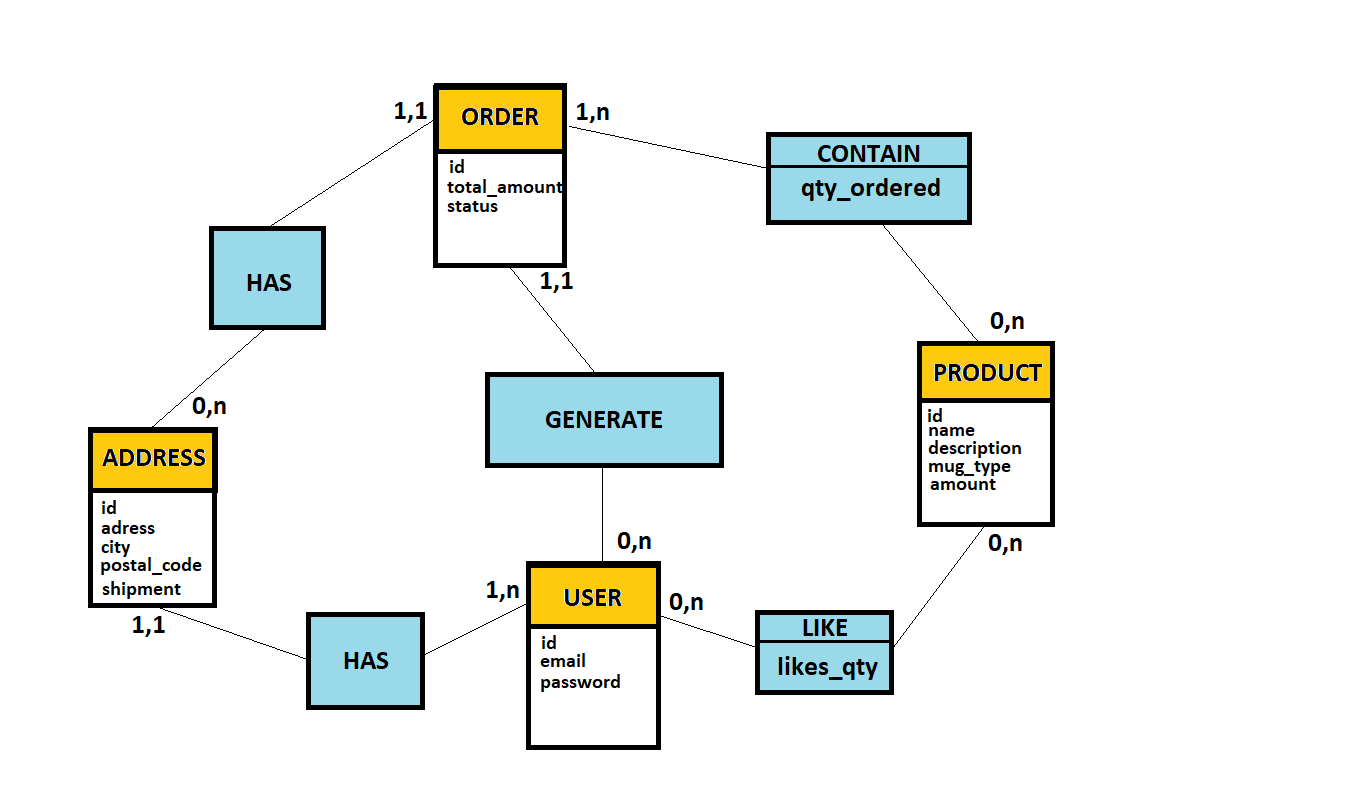
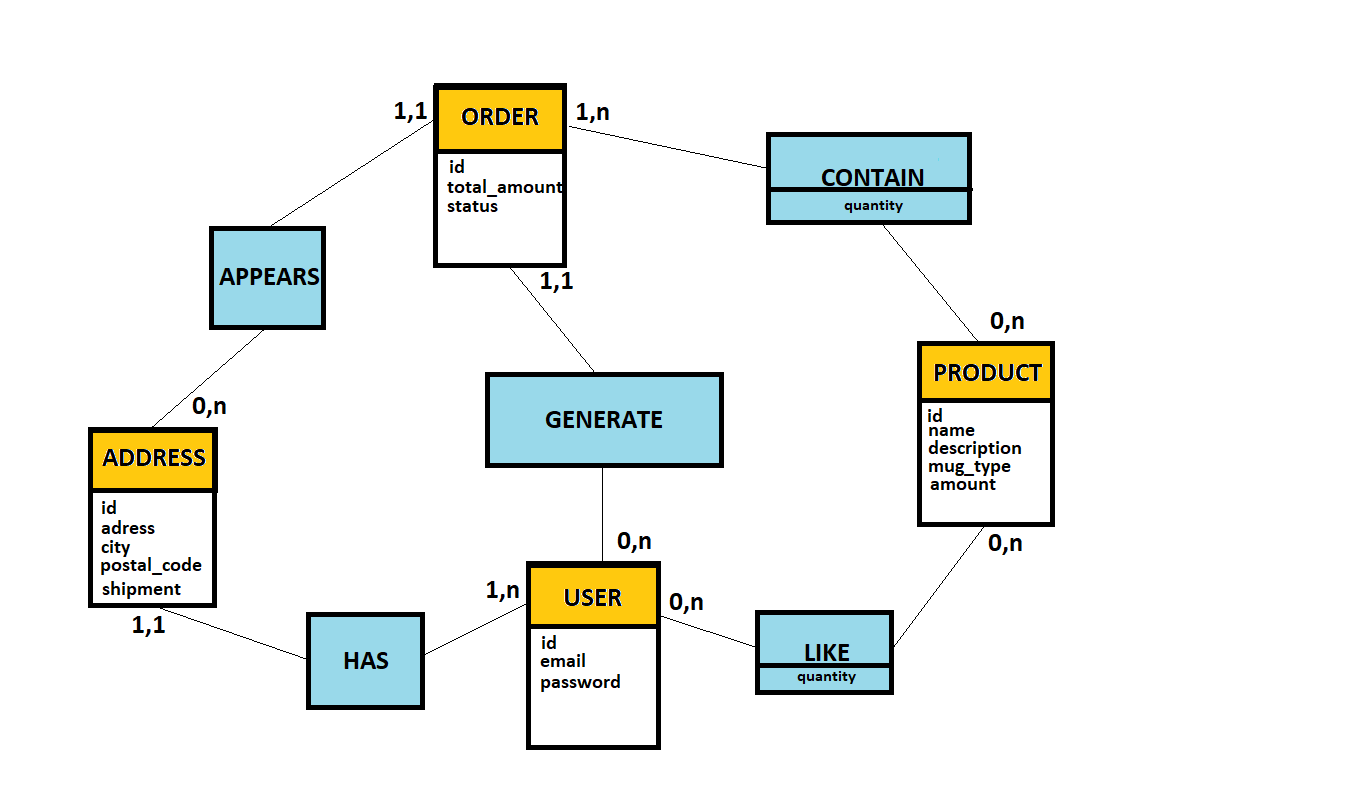
mcd

Changed region(s): [[0.5583, 0.1807, 0.7134, 0.271], [0.5583, 0.7528, 0.6514, 0.8733], [0.1551, 0.3312, 0.2482, 0.3614]]

diff --git a/mcd.md b/mcd.md
@@ -1,0 +1,76 @@
+---
+
+Author: Alain ORLUK / O'clock  
+Formation : Développeur Web & Web mobile - L'API Fetch de JavaScript
+Lieu: Rosheim
+Date : 19/03/2023  
+
+---
+# **Retour sur un MCD d’un.e apprenant.e**
+
+Tout d'abord constatons que le dictionnaire de données sous forme de d'énoncé est pour le moins concis.  
+Gageons qu'il est sujet à questionnement et qu'en situation professionnelle il devra être complété consécutivement à une collecte d'informations plus conséquente auprès du client.  
+
+Toujours est-il que nous n'avons que cela pour concevoir le Modèle conceptuel de données.  
+D'ailleurs voici ma version :  
+![Ma version](/assets/img/MCD.png)
+
+Laisse moi t'expliquer ma vision.  
+À cette fin, décortiquons l'énoncé afin d'identifier les associations :  
+
+1. **Un utilisateur peut créer une ou plusieurs adresses de livraisons**  
+    Déjà ici nous pouvons nous questionner et tenter de trouver une réponse cohérente ou, à défaut, faire des choix qui seront validés ou non lors du retour au client.  
+    - Le compte client contient-il obligatoirement au moins une adresse (par défaut dite de "facturation") ?  
+        Personnellement je pense que c'est effectivement le cas.  
+        Sans cela il faudrait ajouter une étape lors du parcours d'achat, ce qui n'est jamais une bonne idée. Un client trop impatient n'irait pas au bout.  
+        Donc pour moi un client a au moins 1 adresse renseignée sur son compte, celle qui lui a été demandée lors de son inscription.  
+    - Doit-on donc faire la distinction entre adresse de faturation et de livaison dans la modélisation ?  
+        Je ne pense pas.  
+        Qu'est ce qui différencie une adresse de livraison d'une adresse de facturation ? À mon sens c'est le client qui crééra cette association au moment de l'achat.  
+        Pour autant il peut être judicieux de "flagger" une adresse de façon à l'identifier comme adresse de livraison "possible". Cela pourrait s'avérer utile lors d'un achat via le préremplissage d'une adresse de livraison par défaut par exemple.  
+2. **Un utilisateur peut "liker" un ou plusieurs produits**  
+    Ici tu as indiqué des cardinaltés en 1,1 de chaque côté de l'association.  
+    C'est un cas très rare et le plus souvent il résulte d'une mauvaise interprétation du dictionnaire. Dans la plupart des cas les associations de cardinalités 1,1 de chaque côté indiquent que les 2 entités sont étroitement liées et qu'elles pourraient probablement être fusionnées en une seule.  
+    Ici ce n'est clairement pas le cas puisqu'il n'existe pas de lien strcturel étroit entre un utilisateur et un produit.  
+    D'ailleurs l'énoncé dit bien qu'un utilisateur peut "liker" 1 ou **plusieurs** produits. Le maximum de produit qu'un utilisateur peut liker est donc n. Et le minimum est 0 puisque rien n'oblige un utilisateur à liker un produit.  
+3. **Un utilisateur peut passer commande d'un produit**  
+    Ce n'est pas explicitement dit mais il est correct de définir l'association comme "un utilisateur peut commander 0 ou n produits". On ne l'oblige pas à commander et on ne limite pas le nombre de produits qu'il peut commander (Hé oh, le client doit gagner de l'argent aussi, y'a pas que toi🤣).  
+
+Voyons maintenant le MCD que je t'ai proposé.  
+
+## **Détail des associations**
+
+### **Association USER<->ADDRESS**
+
+Comme tu le vois j'ai défini l'association **USER<->ADDRESS** tel que "Un utilisateur est lié à une ou plusieurs adresse" et une adresse est liée à 1 et un seul utilisateur.  J'ai ajouté la propriété `shipment` dans l'entité **ADDRESS**.  
+Cela permettra comme je te l'ai expliqué plus haut de pré-remplir notamment les formulaires lors d'une procédure d'achat. Cela permet également de formaliser l'association **ORDER<->ADDRESS**.  
+En effet une commande doit disposer de l'adresse du client, que ce soit pour l'envoi d'une facture papier ou la désignation d'une adresse de livraison.  
+
+Nous retrouvons l'association exprimée dans l'énoncé par *Un utilisateur peut "liker" un produit ou plusieurs*.  
+
+### **Association USER<->PRODUCT**
+
+Dans cette association tu constates que selon mon interprétation, les cardinalités sont de type x,n de chaque côté.  
+Une des règles communémment admise dans l'interprétation d'une association est qu'une cardinalité de type x,n de part et d'autre sera porteuse de données.  
+Dans le cas présent la donnée portée évoque le nombre "like" qu'un utilisateur a placé tout autant que le nombre de "like" qu'a reçu un produit.  
+
+### **Association PRODUCT<->ORDER**
+
+Comme pour l'association précédente, nous avons une cardinalité x,n de chaqque côté et donc une donnée portée qui évoque le nombre de produits par commande.  
+
+### **Association USER<->ORDER**
+
+Rien à dire ici, tu as parfaitement représenté l'association entre les 2 entités, à savoir qu'un utilisateur peut générer 0 ou n commandes et qu'une commande est liée à 1 utilisateur et un seul.  
+
+Pour finir, sache que tu trouveras sur le net un certain nombre de plateforme web et d'applications pour faciliter la conception d'un MCD.  
+
+Personnellement celles que j'utilise le plus régulièrement sont :  
+
+- [MoCoDo](https://www.mocodo.net/)
+- [Lucidchart](https://www.lucidchart.com/pages/fr/exemple/logiciel-mcd)
+- L'application Paint sous Windows. Ou bon ok c'est loin d'être facile et agréable 😜
+- Une simple feuille de papier. Ben oui quoi, si c'est juste pour vous c'est suffisant, non ?😊
+
+***Note à l'intention du staff O'clock :***  
+Je n'ai pas utilisé ces applis car d'une part je ne me souviens plus de la syntaxe sur **MoCoDo** (plus utilisé depuis…pff, au moins !😁) et que j'ai résilié mon abonnement à **Lucidchart** pour l'instant.  
+Je me suis donc servi de Paint 😄.  

diff --git a/fetch.md b/fetch.md
@@ -6,7 +6,7 @@ Lieu: Rosheim
 Date : 19/03/2023  
 
 ---
-# **le conseil technique avancé à un.e apprenant.e**
+# **Le conseil technique avancé à un.e apprenant.e**
 
 ## **La méthode `fetch()` de l'API Fetch de JavaScript**
 
